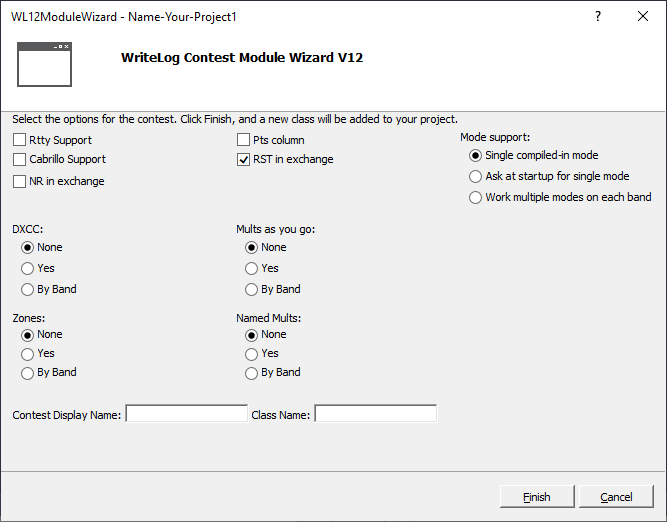
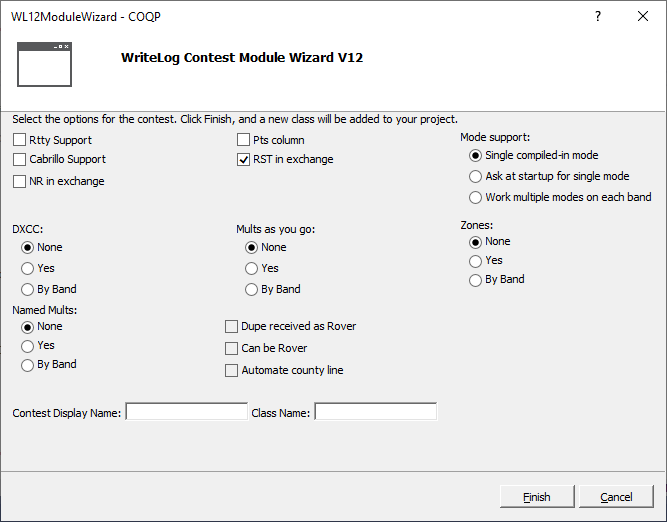
documentation

diff --git a/WL12ModuleWizard/HTML/1033/default.htm b/WL12ModuleWizard/HTML/1033/default.htm
@@ -275,8 +275,9 @@
                       </span>                      
                   </td>
                     <td valign="TOP" colspan='3'>
-                          <br>
                           <span class="itemText">
+                              Roving stations:
+                            <p class="Spacer">      &nbsp;</p>
                               <input class="CheckBox" type="checkbox" id="CAN_LOG_ROVER"  >
                               <div class="itemTextCheckboxA">
                                   <label for="CAN_LOG_ROVER" id="LABEL8">Dupe received as Rover</label>

diff --git a/WL12ModuleWizard/Templates/1033/object.cpp b/WL12ModuleWizard/Templates/1033/object.cpp
@@ -1063,7 +1063,7 @@ HRESULT [!output MM_CLASS_NAME]::MultiCheck(
         if (canWrite && m_countyLineMode)
         {
             if (!fCALL(q).empty())
-            {
+            {   // County line--call filled in
                 for (unsigned i = 0; i < m_dupeSheets.size(); i++)
                 {
                     unsigned long QsoNumber;
@@ -1089,7 +1089,8 @@ HRESULT [!output MM_CLASS_NAME]::MultiCheck(
             }
 [!if !NO_NAMEDMULT]
             else if (fRCVD(q).empty())
-            { // fill in call from previous QSO on this band and for next of our counties
+            {   // county line mode. Call empty and fRCVD empty
+                // fill in call from previous QSO on this band and for next of our counties
                     unsigned long n = 0;
                     m_Parent->NumberQsos(&n);
                     while (n != 0)
@@ -1935,7 +1936,7 @@ HRESULT [!output MM_CLASS_NAME]::FormatTxField(QsoPtr_t q, short Field, char *Bu
 [!endif]
 [!if !NO_NAMEDMULT]
 	case 0:	//TODO
-		wsprintf(Buf, "%-6.6s ", currentDupeSheet().m_MyMult.c_str());
+		wsprintf(Buf, "%-6.6s ", currentDupeSheet().key().c_str());
 		break;
 [!endif]
 [!if NR_IN_EXCHANGE]

diff --git a/README.md b/README.md
@@ -130,6 +130,14 @@ they're going to be. This can be used for logging those contests where the
 that are the multipliers for the contest. You will need to create (and distribute)
 an INI file that has the multipliers in it along with any ALIAS names you want
 to all refer to the same multiplier
+<li><i>Roving Stations</i>
+<ul>
+<li><i>Dupe received as Rover</i> The received exchange can make a matching call and band 
+not a duplicate.</li>
+<li><i>Can be rover</i> You can send a different county or grid and work stations again.</li>
+<li><i>Automate county line</i> When operating from a county/grid boundary, press TAB on an empty QSO Window
+and WriteLog fills in the next county/grid you haven't already logged for that call and band.</li>
+</ul></li>
 <li><i>Contest Display Name</i> is what the user will see in the WriteLog Select Contest list.
 <li><i>Class Name</i> is the name of the C++ class to be generated. The wizard has to generate
 a name for the corresponding COM coclass which it does this way: if you start the name of the 
